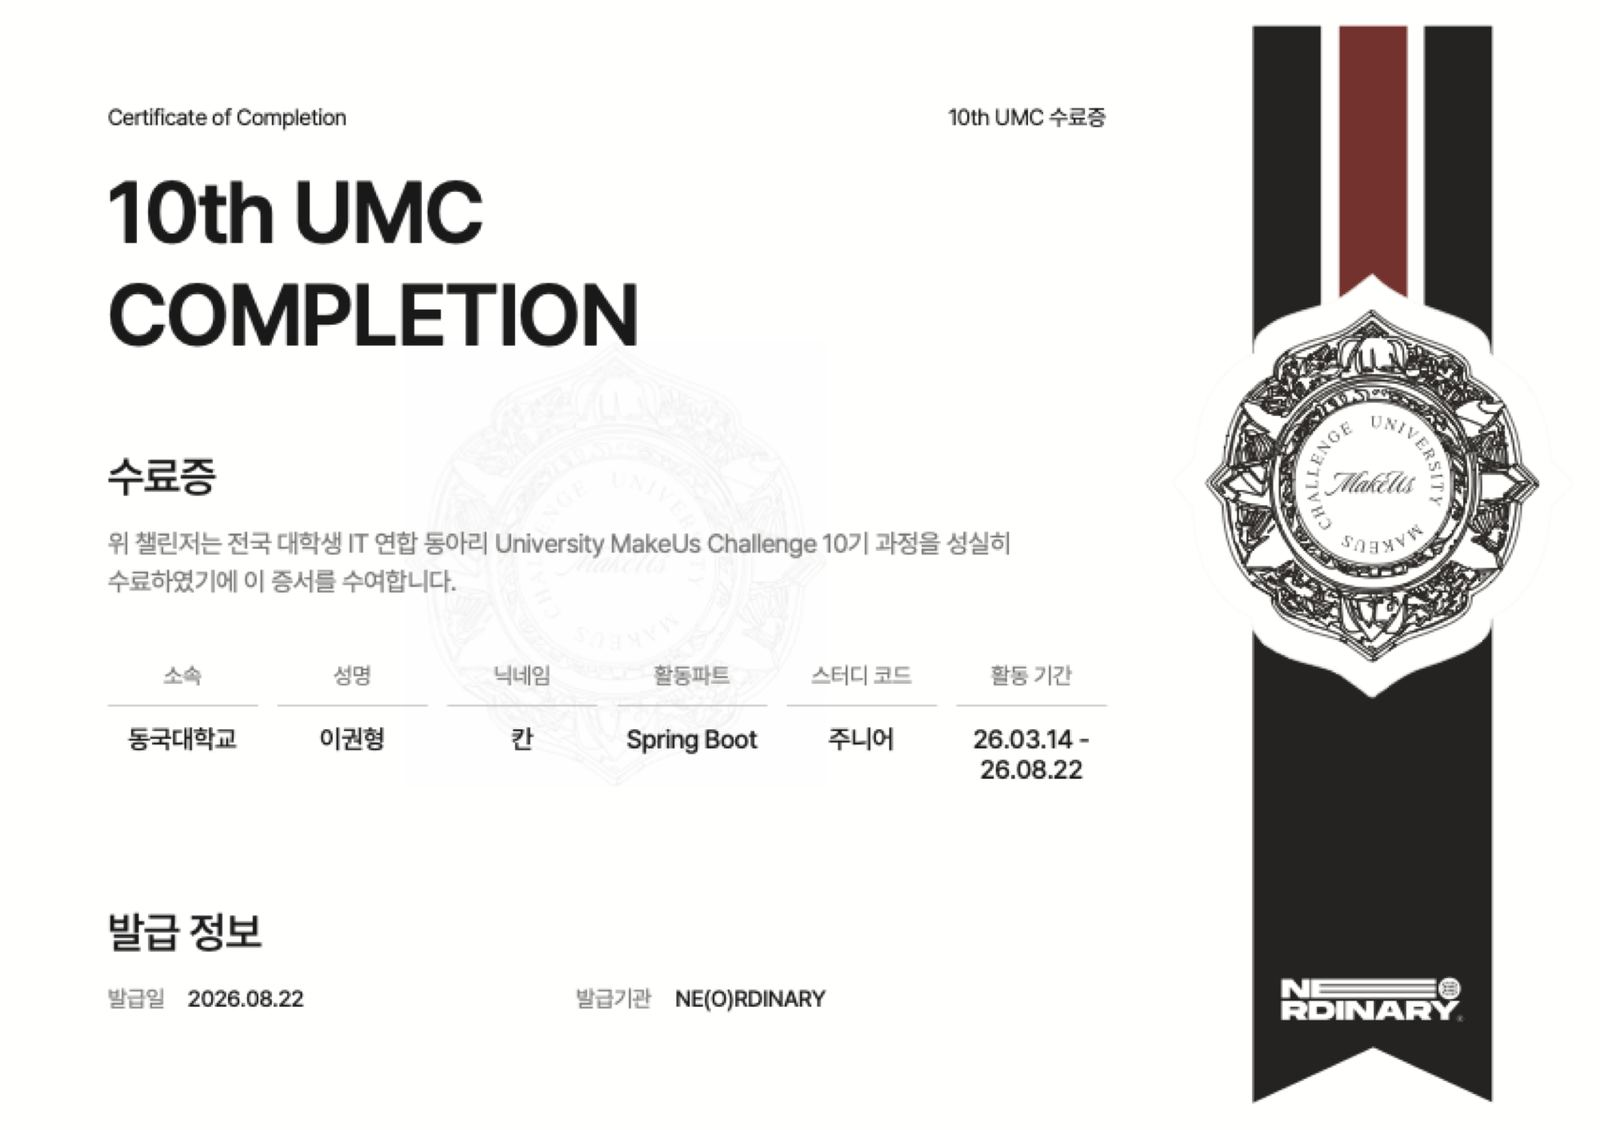
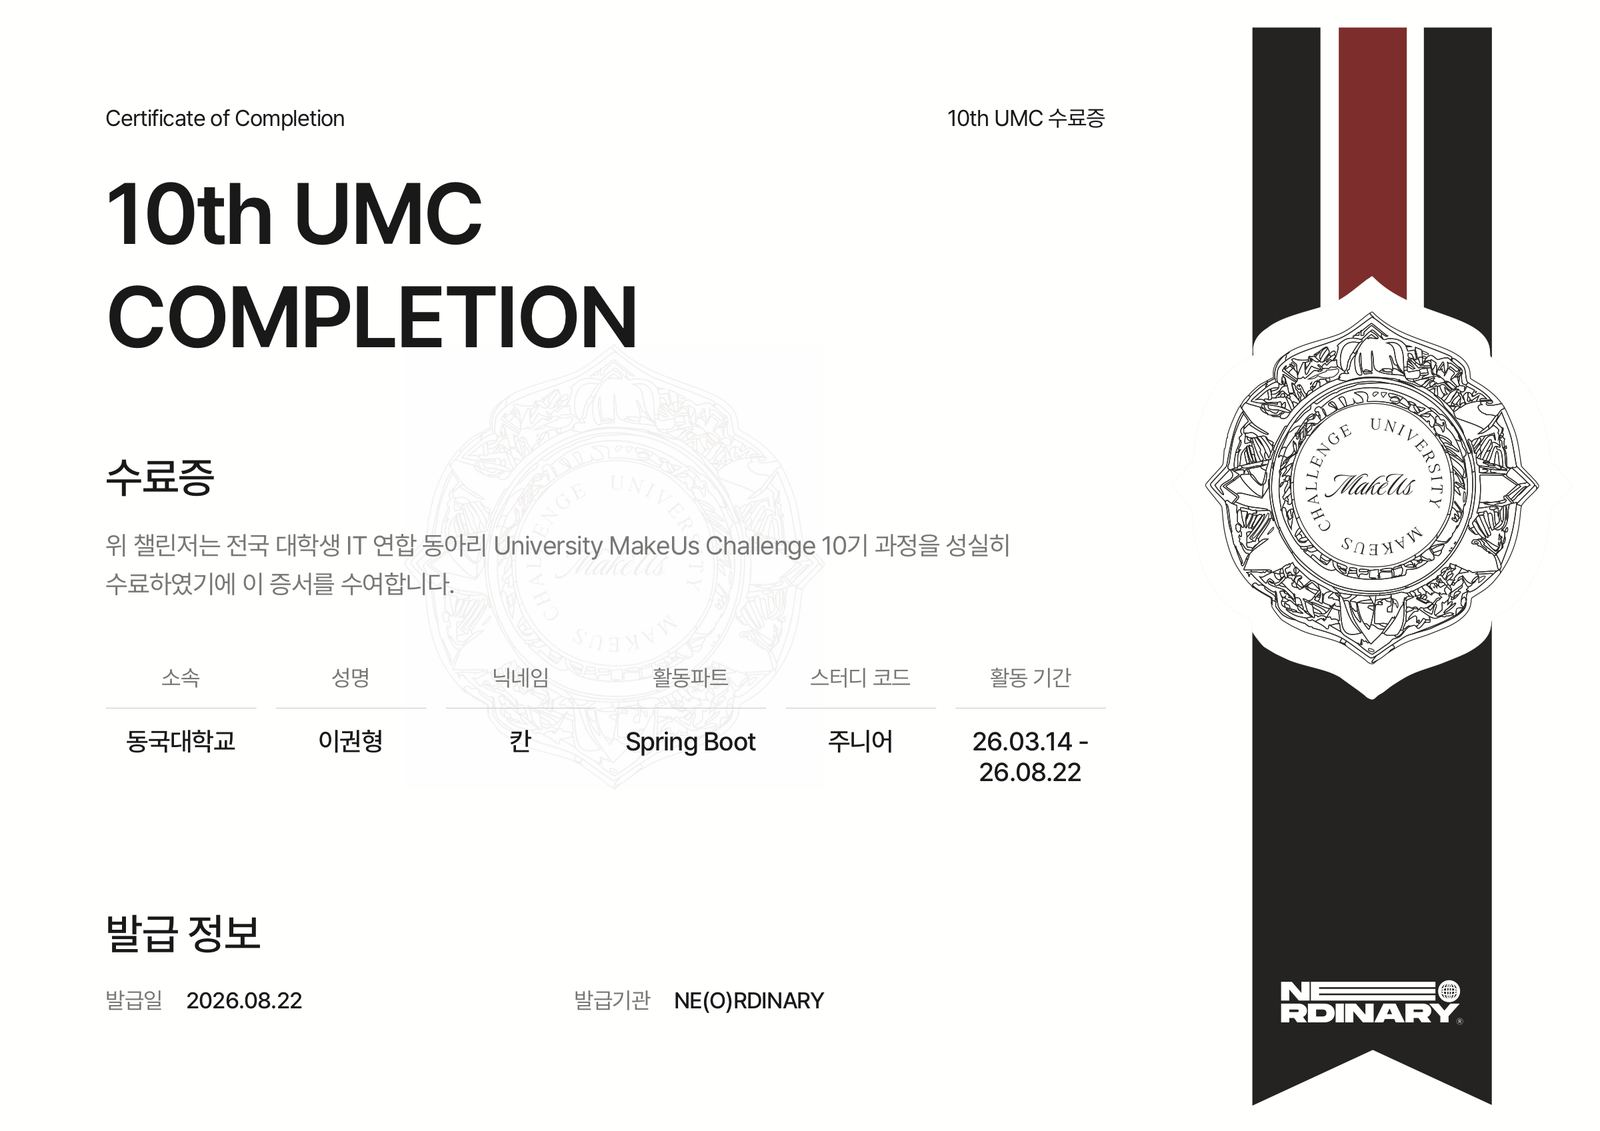
feat(cred): 오픈소스프로젝트 경진대회 장려상에 상장 보기 추가
CREDENTIALS 목록의 2025 장려상 줄에 `.cred__scan` 버튼을 달았다. 누르면 UMC
수료증과 같은 방식으로 상장 원본이 전체 화면에 뜨고, 캡션 옆에 SpeakFlow
저장소 링크가 붙는다.

PDF 를 그리는 방법도 바꿨다. 이 상장은 페이지에 /Rotate 270 이 걸려 있는데
sips 가 그걸 무시해서 옆으로 눕고 위쪽 제목과 학교 로고가 잘려 나갔다.
맥의 Quick Look 은 회전을 반영해 그리므로 qlmanage 로 옮겼다. 기존 UMC
상장 두 장도 같은 경로로 다시 뽑았고 결과는 그대로다.

1440 · 768 · 390 에서 확인했고 세로 상장도 라이트박스 안에 다 들어온다.

diff --git a/index.html b/index.html
@@ -320,7 +320,7 @@
             <div><dt>2026</dt><dd>너디너리 페스티벌 연합동아리 UMC 10th 대상</dd></div>
             <div><dt>2026</dt><dd>In-Jeju Challenge 사물인터넷 혁신융합대학사업단 최우수상 (총장상)</dd></div>
             <div><dt>2026</dt><dd>WITHUS 프로젝트 경진대회 (S.M.A.R.T 토너먼트) 최우수상</dd></div>
-            <div><dt>2025</dt><dd>동국대학교 오픈소스프로젝트 경진대회 장려상</dd></div>
+            <div><dt>2025</dt><dd>동국대학교 오픈소스프로젝트 경진대회 장려상<button type="button" class="cred__scan" data-lightbox="assets/images/cred/scan/oss-project.jpg" data-lightbox-alt="동국대학교 오픈소스프로젝트 경진대회 장려상 상장" data-lightbox-caption="2025년 오픈소스프로젝트 경진대회 장려상 — 스픽플로우(SpeakFlow)" data-lightbox-href="https://github.com/kannikii/csc4004-1-4-team04" data-lightbox-href-text="SpeakFlow 저장소">상장</button></dd></div>
             <div><dt>자격증</dt><dd>정보처리기사</dd></div>
             <div><dt>자격증</dt><dd>SQLD (SQL 개발자)</dd></div>
             <div><dt>자격증</dt><dd>프로그래밍기능사</dd></div>

diff --git a/tools/prepare-photos.py b/tools/prepare-photos.py
@@ -69,6 +69,7 @@ PHOTOS = {
 PDFS = {
     'umc_daesang':    '동국대학교_SpringBoot_칸_이권형_대상.pdf',
     'umc_completion': '동국대학교_SpringBoot_칸_이권형_수료증.pdf',
+    'oss_jangryeo':   '스픽플로우상장_이권형.pdf',
 }
 
 
@@ -87,13 +88,19 @@ def load_url(url: str) -> Image.Image:
 
 
 def load_pdf(path: Path) -> Image.Image:
-    """맥의 sips 로 PDF 첫 장을 PNG 로 뽑는다. 별도 설치가 필요 없다."""
+    """맥의 Quick Look 으로 PDF 첫 장을 PNG 로 뽑는다. 별도 설치가 필요 없다.
+
+    sips 를 쓰지 않는다. 페이지에 /Rotate 가 걸린 PDF 를 sips 는 무시해서
+    상장이 옆으로 눕고 위쪽이 잘린다. Quick Look 은 회전을 반영해 그린다.
+    """
     with tempfile.TemporaryDirectory() as tmp:
-        png = Path(tmp) / 'page.png'
+        out = Path(tmp)
         subprocess.run(
-            ['sips', '-s', 'format', 'png', '--resampleWidth', '2000',
-             str(path), '--out', str(png)],
+            ['qlmanage', '-t', '-s', '2400', '-o', str(out), str(path)],
             check=True, stdout=subprocess.DEVNULL, stderr=subprocess.DEVNULL)
+        png = next(out.glob('*.png'), None)
+        if png is None:
+            sys.exit(f'PDF 를 그리지 못했다: {path}')
         return Image.open(png).copy()
 
 
@@ -223,6 +230,7 @@ def main() -> None:
     # --- 클릭하면 뜨는 원본 -------------------------------------------------
     scan(pdf['umc_daesang'], 'cred/scan/umc-daesang.jpg')
     scan(pdf['umc_completion'], 'cred/scan/umc-completion.jpg')
+    scan(pdf['oss_jangryeo'], 'cred/scan/oss-project.jpg')
     scan(crop_frac(photo['injeju'], (0, .045, 1, .90)), 'cred/scan/injeju.jpg')
     scan(crop_frac(photo['smart'], (0, 0, .985, 1)), 'cred/scan/smart.jpg')
 

diff --git a/README.md b/README.md
@@ -93,7 +93,8 @@ python3 tools/prepare-photos.py --src ~/Downloads  # 사진 · 상장
 
 `prepare-photos.py` 는 Pillow가 필요하고, 원본 사진과 PDF를 `--src` 아래에서 **파일 이름으로**
 찾는다. 원본은 저장소에 두지 않는다. 스크립트 상단의 `PHOTOS` · `PDFS` 에 이름이 적혀 있다.
-PDF는 맥의 `sips` 로 첫 장만 PNG로 뽑는다.
+PDF는 맥의 Quick Look(`qlmanage -t`)으로 첫 장만 PNG로 뽑는다. `sips` 는 쓰지 않는다.
+페이지에 `/Rotate` 가 걸린 상장 PDF 를 `sips` 가 무시해서 옆으로 눕고 위쪽이 잘린다.
 
 | 키 | 원본 파일 이름 | 쓰이는 곳 |
 |---|---|---|
@@ -103,6 +104,9 @@ PDF는 맥의 `sips` 로 첫 장만 PNG로 뽑는다.
 | `umc_close` | `IMG_7923.JPG` | UMC 10th 대상 카드 |
 | `injeju` | `IMG_7539.jpg` | In-Jeju Challenge 카드 · 상장 원본 |
 | `smart` | `IMG_6872.JPG` | WITHUS S.M.A.R.T 카드 · 상장 원본 |
+| `umc_daesang` | `동국대학교_SpringBoot_칸_이권형_대상.pdf` | UMC 10th 대상 상장 원본 |
+| `umc_completion` | `동국대학교_SpringBoot_칸_이권형_수료증.pdf` | UMC 10th 수료증 원본 |
+| `oss_jangryeo` | `스픽플로우상장_이권형.pdf` | 오픈소스프로젝트 경진대회 장려상 원본 |
 
 `SHOTS` 에 적힌 네 개는 깃허브 리드미에 올라와 있는 스크린샷이라 실행할 때마다 내려받는다.
 리드미 이미지가 있는 저장소만 실제 화면을 쓰고(handcraftedboard · Problem Solving ·
